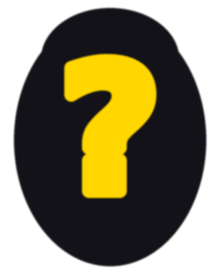
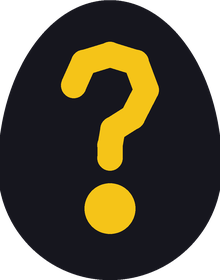
fix(hatchery): egg-shaped badge, bottom tray band, legible ? egg
- icon_egg.png redrawn as a proper pointed-top egg silhouette so the roster
  badge reads as an egg (not two stacked boxes) next to the home badge.
- Resting egg tray anchored to a ~15%-tall bottom band via tray_band, sizing
  the eggs to it, instead of a taller vertically-centered row.
- egg_unknown.png's ? redrawn as a bold stroked glyph with an oversized,
  clearly separated dot that survives per-cell braille averaging at tray size.

Roster golden fixtures regenerated for the new badge icon; the undefined-egg
marker test now matches the small tray egg's blended yellow-gold.

Claude-Session: https://claude.ai/code/session_01SKXGCqzdrb9qK7oE5yqXZQ

Changed region(s): [[0.0, 0.0, 1.0, 1.0], [0.2727, 0.1429, 0.7364, 0.8571]]

diff --git a/crates/game/src/scenes/hatchery/mod.rs b/crates/game/src/scenes/hatchery/mod.rs
@@ -240,7 +240,7 @@ impl Scene for Hatchery {
         let mut buttons = self.egg_buttons.borrow_mut();
         match self.focused {
             None => {
-                let slots = tray::tray_slots(area, self.eggs.len());
+                let slots = tray::tray_slots(tray::tray_band(area), self.eggs.len());
                 for (i, slot) in slots.iter().enumerate() {
                     tray::draw_egg(
                         frame.buffer_mut(),
@@ -505,9 +505,12 @@ mod tests {
     }
 
     /// A scene with an `Undefined` egg renders the tray: somewhere in the
-    /// frame there is a lit dot carrying the bundled `?` sprite's bright
-    /// yellow, untinted (element_color tints would darken it away from this
-    /// exact hue).
+    /// frame there is a cell carrying the bundled `?` sprite's warm yellow-gold,
+    /// untinted. In the resting tray the egg is small, so per-cell braille
+    /// averaging blends the `?`'s thin strokes with the dark egg body toward a
+    /// muted gold (~201,160,60) rather than the sprite's pure yellow — but it
+    /// stays unmistakably yellow-gold, which no element tint (reddish Fire,
+    /// bluish Ice, ...) would produce from a bright mark.
     #[test]
     fn render_draws_undefined_eggs_bright_yellow_marker() {
         let dir = temp_store_dir("render-undefined-marker");
@@ -518,19 +521,21 @@ mod tests {
         let (w, h) = (40u16, 20u16);
         let buf = render_to_buffer(&scene, w, h);
 
-        let is_bright_yellow = |r: u8, g: u8, b: u8| r > 200 && g > 150 && b < 50;
+        // Warm yellow-gold: strong red+green, low blue. Loose enough for the
+        // small-egg per-cell blend, tight enough to exclude element tints.
+        let is_yellow_gold = |r: u8, g: u8, b: u8| r > 190 && g > 150 && b < 90;
         let mut found = false;
         'scan: for y in 0..h {
             for x in 0..w {
                 if let Some((_, color)) = engine_render::decode_braille_cell(&buf, x, y) {
-                    if is_bright_yellow(color.r, color.g, color.b) {
+                    if is_yellow_gold(color.r, color.g, color.b) {
                         found = true;
                         break 'scan;
                     }
                 }
             }
         }
-        assert!(found, "expected a bright-yellow lit dot somewhere in the rendered frame for the undefined egg's `?`");
+        assert!(found, "expected a warm yellow-gold cell somewhere in the rendered frame for the undefined egg's `?`");
     }
 
     fn ready_egg() -> Egg {
@@ -566,7 +571,7 @@ mod tests {
         let area = Rect::new(0, 0, w, h);
         let _ = render_to_buffer(&scene, w, h);
 
-        let rect = tray::tray_slots(area, 1)[0].to_cell_rect();
+        let rect = tray::tray_slots(tray::tray_band(area), 1)[0].to_cell_rect();
         tap_at(&mut scene, rect.x, rect.y);
 
         assert_eq!(scene.focused, Some(0), "tapping an Incubating egg must focus it");
@@ -588,7 +593,7 @@ mod tests {
         let area = Rect::new(0, 0, w, h);
 
         let _ = render_to_buffer(&scene, w, h);
-        let tray_rect = tray::tray_slots(area, 1)[0].to_cell_rect();
+        let tray_rect = tray::tray_slots(tray::tray_band(area), 1)[0].to_cell_rect();
         tap_at(&mut scene, tray_rect.x, tray_rect.y);
         assert_eq!(scene.focused, Some(0));
 
@@ -617,7 +622,7 @@ mod tests {
         let area = Rect::new(0, 0, w, h);
 
         let _ = render_to_buffer(&scene, w, h);
-        let slot0 = tray::tray_slots(area, 2)[0].to_cell_rect();
+        let slot0 = tray::tray_slots(tray::tray_band(area), 2)[0].to_cell_rect();
         tap_at(&mut scene, slot0.x, slot0.y);
         assert_eq!(scene.focused, Some(0));
 
@@ -640,7 +645,7 @@ mod tests {
         let (w, h) = (40u16, 20u16);
         let area = Rect::new(0, 0, w, h);
         let _ = render_to_buffer(&scene, w, h);
-        let rect = tray::tray_slots(area, 1)[0].to_cell_rect();
+        let rect = tray::tray_slots(tray::tray_band(area), 1)[0].to_cell_rect();
         tap_at(&mut scene, rect.x, rect.y);
 
         assert!(scene.focused.is_none(), "an Undefined egg must never enter focus");
@@ -659,7 +664,7 @@ mod tests {
         let (w, h) = (40u16, 20u16);
         let area = Rect::new(0, 0, w, h);
         let _ = render_to_buffer(&scene, w, h);
-        let rect = tray::tray_slots(area, 1)[0].to_cell_rect();
+        let rect = tray::tray_slots(tray::tray_band(area), 1)[0].to_cell_rect();
         tap_at(&mut scene, rect.x, rect.y);
 
         assert!(scene.focused.is_none(), "a Ready egg must never enter focus");

diff --git a/crates/game/src/scenes/hatchery/tray.rs b/crates/game/src/scenes/hatchery/tray.rs
@@ -27,26 +27,46 @@ const WIGGLE_PERIOD: Duration = Duration::from_millis(500);
 /// Peak vertical bob amplitude, in dots.
 const WIGGLE_AMP_DOTS: i32 = 2;
 
+/// The resting tray band: a strip along the bottom of `area` ~15% of its
+/// height tall, where the tray lays its eggs out. Anchoring the eggs to a
+/// short bottom band (rather than the vertical center) keeps the play area
+/// above it clear.
+pub(crate) fn tray_band(area: Rect) -> Rect {
+    let band_h = (area.height * 3 / 20).max(3);
+    Rect {
+        x: area.x,
+        y: area.y + area.height.saturating_sub(band_h),
+        width: area.width,
+        height: band_h,
+    }
+}
+
 /// The single owner of per-egg tray placement and hit-rects: one unfloored
-/// `DotRect` per egg, a centered horizontal row, vertically centered in
-/// `area`. Every returned rect is `EGG_SLOT_W_DOTS` x `EGG_SLOT_H_DOTS`.
+/// `DotRect` per egg, a centered horizontal row that fills the given `area`
+/// band vertically (small padding), preserving the egg sprite's 11:14 aspect.
+/// Callers pass a short band (`tray_band` for the resting tray, the focus
+/// strip while an egg is focused), so the eggs size themselves to it.
 pub(crate) fn tray_slots(area: Rect, count: usize) -> Vec<DotRect> {
     let ax = area.x as i32 * 2;
     let ay = area.y as i32 * 4;
     let aw = area.width as i32 * 2;
     let ah = area.height as i32 * 4;
 
+    let pad = (ah / 14).max(1);
+    let slot_h = (ah - 2 * pad).max(1);
+    let slot_w = (slot_h * EGG_SLOT_W_DOTS / EGG_SLOT_H_DOTS).max(1);
+    let slot_y = ay + (ah - slot_h) / 2;
+
     let count_i32 = count as i32;
-    let total_w = count_i32 * EGG_SLOT_W_DOTS + (count_i32 - 1).max(0) * EGG_GAP_DOTS;
+    let total_w = count_i32 * slot_w + (count_i32 - 1).max(0) * EGG_GAP_DOTS;
     let start_x = ax + (aw - total_w) / 2;
-    let slot_y = ay + (ah - EGG_SLOT_H_DOTS) / 2;
 
     (0..count)
         .map(|i| DotRect {
-            x: start_x + i as i32 * (EGG_SLOT_W_DOTS + EGG_GAP_DOTS),
+            x: start_x + i as i32 * (slot_w + EGG_GAP_DOTS),
             y: slot_y,
-            w: EGG_SLOT_W_DOTS,
-            h: EGG_SLOT_H_DOTS,
+            w: slot_w,
+            h: slot_h,
         })
         .collect()
 }
